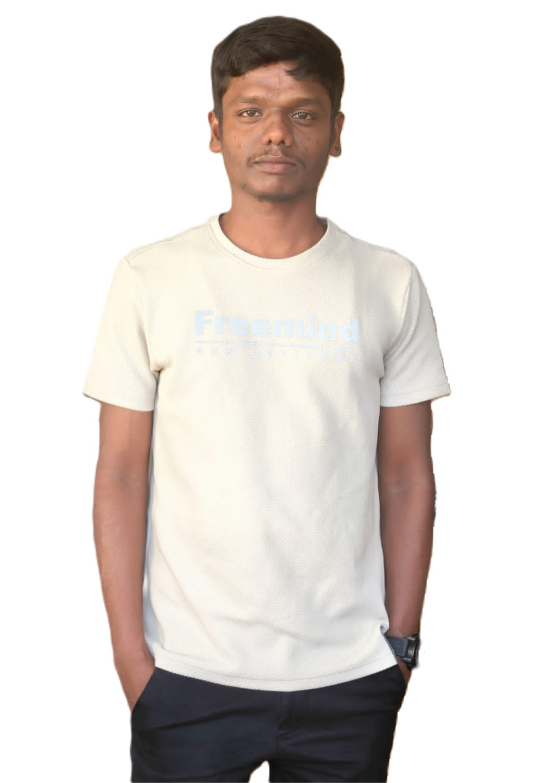
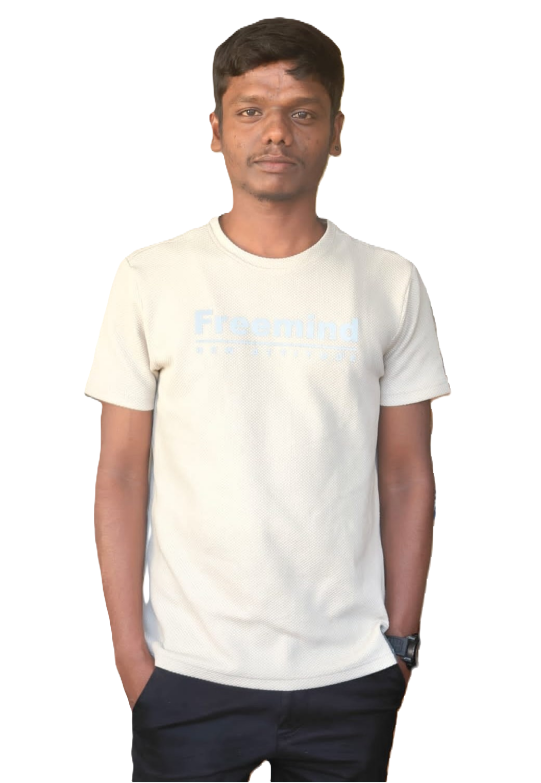
image chage

diff --git a/index.html b/index.html
@@ -98,7 +98,7 @@
         <div class="relative flex justify-center items-center mb-4 md:mb-0 w-full md:w-1/2">
           <img src="images/myimage.png" alt="Descriptive Alt Text"
             class="rounded-lg w-full h-auto max-h-[500px] object-scale-down">
-          <div class="absolute bottom-0 left-0 right-0 h-20 bg-gradient-to-t from-white"></div>
+          <div class="absolute bottom-0 left-0 right-0 h-[220px] bg-gradient-to-t from-white"></div>
         </div>
         <div class="w-full md:w-1/2">
           <a href="#"
